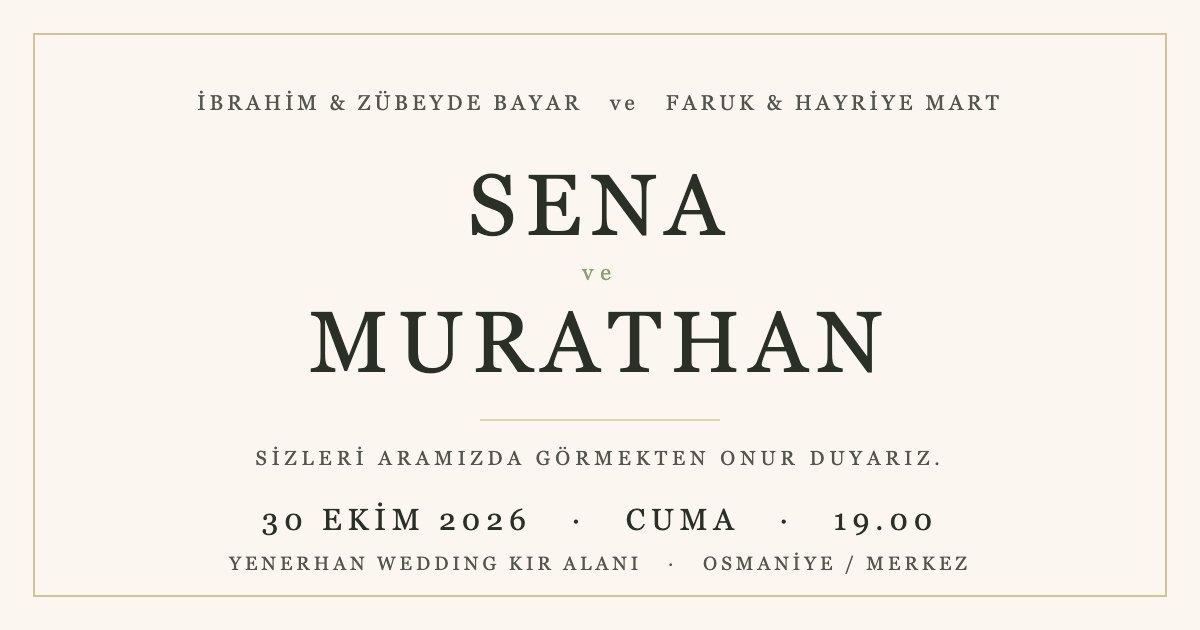
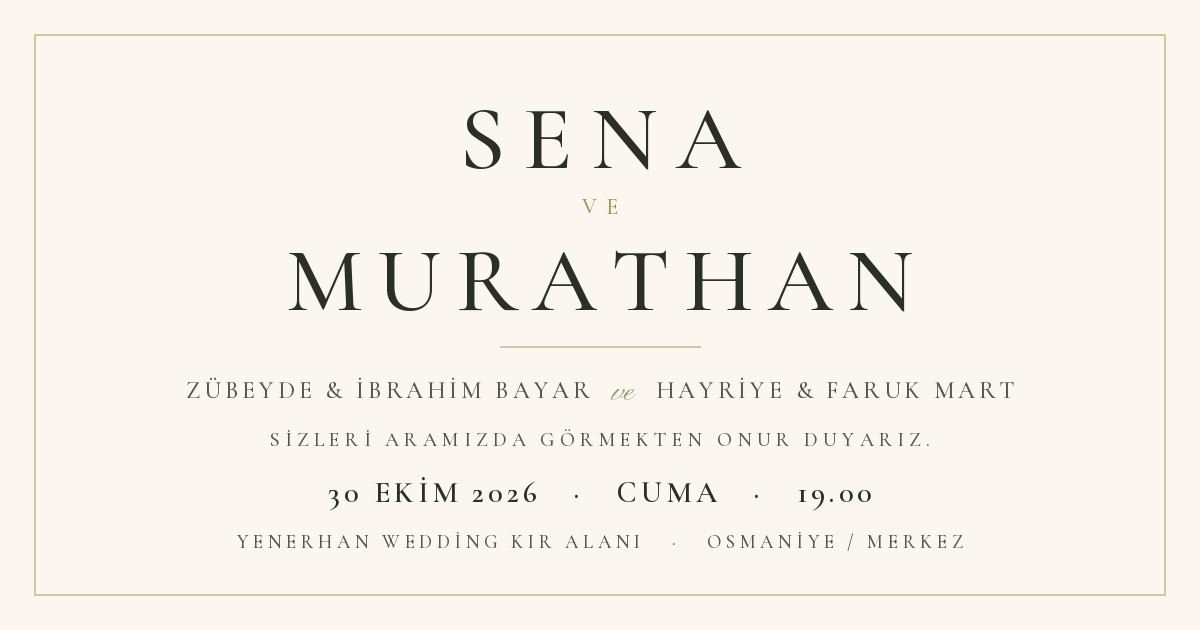
Add files via upload

diff --git a/index.html b/index.html
@@ -15,7 +15,7 @@
      murathanb.github.io/dugun-davetiye yerine sitenin gerçek adresini yaz (örn. sena-murathan.netlify.app).
      WhatsApp'ta linkin altında görünen kapak buradan geliyor; adres yanlışsa kapak çıkmaz. -->
 <meta property="og:url" content="https://murathanb.github.io/dugun-davetiye/">
-<meta property="og:image" content="https://murathanb.github.io/dugun-davetiye/davetiye-onizleme.jpg">
+<meta property="og:image" content="https://murathanb.github.io/dugun-davetiye/davetiye-onizleme.jpg?v=2">
 <!-- ▲▲▲ ---------------------------------------------------- ▲▲▲ -->
 
 <meta property="og:image:width" content="1200">
@@ -247,17 +247,17 @@
       <path class="stem" d="M50 0 C 42 82, 86 130, 76 216 C 68 298, 102 346, 96 420" stroke="#9CA88C" stroke-width="1.6"/>
     </svg>
 
-    <span class="t c serif fam muted" data-k="famL">İBRAHİM &amp; ZÜBEYDE</span>
+    <h1 class="t c serif nm" data-k="sena">SENA</h1>
+    <span class="t c serif ve-c goldc" data-k="veC">VE</span>
+    <span class="t c serif nm" data-k="murathan">MURATHAN</span>
+
+    <span class="rule" data-k="rule1" aria-hidden="true"></span>
+    <span class="t c script ail goldc" data-k="ail">Aileleri</span>
+    <span class="t c serif fam muted" data-k="famL">ZÜBEYDE &amp; İBRAHİM</span>
     <span class="t c script ve-s sagec" data-k="ve">ve</span>
-    <span class="t c serif fam muted" data-k="famR">FARUK &amp; HAYRİYE</span>
+    <span class="t c serif fam muted" data-k="famR">HAYRİYE &amp; FARUK</span>
     <span class="t c serif sur" data-k="surL">BAYAR</span>
     <span class="t c serif sur" data-k="surR">MART</span>
-    <span class="t c script ail goldc" data-k="ail">Aileleri</span>
-    <span class="rule" data-k="rule1" aria-hidden="true"></span>
-
-    <h1 class="t c serif nm" data-k="sena">SENA</h1>
-    <span class="t c serif ve-c sagec" data-k="veC">VE</span>
-    <span class="t c serif nm" data-k="murathan">MURATHAN</span>
 
     <span class="t c serif wsh muted" data-k="wish1">SİZLERİ ARAMIZDA GÖRMEKTEN ONUR</span>
     <span class="t c serif wsh muted" data-k="wish2">DUYARIZ.</span>
@@ -322,15 +322,15 @@
   /* orijinal davetiyeden ölçülen oranlar — hepsi kart genişliğine göre.
      cap: büyük harf yüksekliği · w: satır genişliği · top: mürekkebin üst kenarı · cx: merkez  */
   var SPEC={
-    famL:{base:.1476, cap:.0144, w:.2758, cx:.3013},
-    ve:  {top:.1354, w:.0333, cx:.5070, script:1},
-    famR:{base:.1476, cap:.0144, w:.2440, cx:.6963},
-    surL:{base:.2009, cap:.0189, w:.1244, cx:.3008},
-    surR:{base:.2009, cap:.0189, w:.1088, cx:.6947},
-    ail: {top:.2464, w:.1321, cx:.5000, script:1},
-    sena:{base:.4795, cap:.0411, w:.1809, cx:.4978},
-    veC: {base:.5316, cap:.0133, w:.0333, cx:.4961},
-    murathan:{base:.6149, cap:.0411, w:.4251, cx:.4956},
+    sena:{base:.1837, cap:.0405, w:.1784, cx:.4956},
+    veC: {base:.2479, cap:.0126, w:.0327, cx:.4992},
+    murathan:{base:.3388, cap:.0405, w:.4226, cx:.4944},
+    ail: {top:.4379, w:.1297, cx:.4986, script:1},
+    famL:{base:.5383, cap:.0152, w:.2906, cx:.3051},
+    ve:  {top:.5373, w:.0296, cx:.4926, script:1},
+    famR:{base:.5383, cap:.0152, w:.2575, cx:.6652},
+    surL:{base:.5968, cap:.0187, w:.1231, cx:.3113},
+    surR:{base:.5968, cap:.0187, w:.1075, cx:.6931},
     wish1:{base:.6881, cap:.0155, w:.5161, cx:.4978},
     wish2:{base:.7270, cap:.0155, w:.1210, cx:.4978},
     ekim:{base:.8257, cap:.0122, w:.0588, cx:.4123},
@@ -345,7 +345,7 @@
     dvt: {top:1.2431, w:.2375, cx:.7492, script:1}
   };
   var BOX={
-    rule1:{y:.3563, x:.4262, w:.1465},
+    rule1:{y:.3976, x:.4250, w:.1483},
     ruleL:{y:.8213, x:.2486, w:.0888},
     ruleR:{y:.8213, x:.6626, w:.0888},
     mapbox:{cx:.2453, cy:1.2819, d:.0954},
